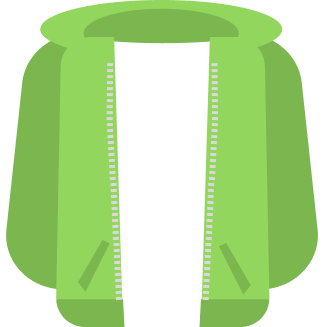
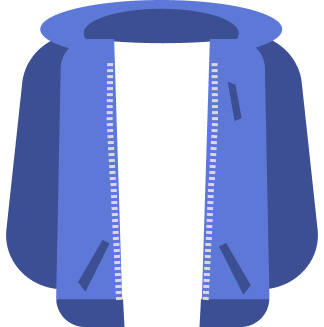
added more options on clothing

diff --git a/screens/SideScreen.js b/screens/SideScreen.js
@@ -13,7 +13,8 @@ import { getWinterJackets,
          getUmbrella,
          getRainBoots,
          getSneakers,
-         getShorts, } from "./getClothing";
+         getShorts,
+         getLightJacket } from "./getClothing";
 
 //For scaling [default dimension: 360x800]
 const { width, height } = Dimensions.get('window');
@@ -46,7 +47,7 @@ const WeatherScreen = ( { city} ) => {
   else{
     hat = require('../assets/empty.png')
   }
-  if(city.shirt === 'long-sleved'){
+  if(city.shirt === 'long-sleeved'){
     shirt = getlongSleeved()[0]
   }
   else if(city.shirt === 'hoodie'){
@@ -58,8 +59,8 @@ const WeatherScreen = ( { city} ) => {
   if(city.jacket === 'winter-jacket'){
     jacket = getWinterJackets()[0]
   }
-  else if(city.jacket){
-
+  else if(city.jacket === 'light-jacket'){
+    jacket = getLightJacket()[0]
   }
   else{
     jacket = require('../assets/empty.png')
@@ -167,7 +168,7 @@ const WeatherScreen = ( { city} ) => {
                 <Image
                   style={[styles.avatarBodyHead]}
                   resizeMode="cover"
-                  source={require("../assets/male-body/male-head-gas-mask.png")}
+                  source={require("../assets/male-body/male-head.png")}
                 />
                 <Image
                   style={[styles.avatarBodyUpperBody]}
@@ -322,7 +323,7 @@ const styles = StyleSheet.create({
   },
   jacket:{
     zIndex: 2,
-    top: 63,
+    top: 64,
   },
   pants:{
     top: 150,
@@ -334,7 +335,7 @@ const styles = StyleSheet.create({
   },
   umbrella:{
     zIndex: 100,
-    top: 150,
+    top: 152,
     right: 70
   },
   botBar:{

diff --git a/screens/getClothing.js b/screens/getClothing.js
@@ -3,13 +3,14 @@ import * as React from "react";
 const winter = [require('../assets/jacket/winter/v1.png')]
 const pants = [require('../assets/pants/pants/v1.png')]
 const hoodie = [require('../assets/shirt/hoodie/v1.png'), require('../assets/shirt/hoodie/v2.png')]
-const longSleeved = [require('../assets/shirt/long-sleeved/v1.png')]
+const longSleeved = [require('../assets/shirt/long/v1.png')]
 const boots = [require('../assets/shoes/boots/v1.png')]
 const sneakers = [require('../assets/shoes/sneakers/v1.png')]
 const rain = [require('../assets/shoes/rain/v1.png')]
 const sandals = [require('../assets/shoes/sandals/v1.png')]
 const umbrella = [require('../assets/accessories/umbrella/v1.png')]
 const shorts = [require('../assets/pants/shorts/v1.png')]
+const light = [require('../assets/jacket/light/v1.png')]
 export function getWinterJackets(){
     return winter;
 }
@@ -39,4 +40,7 @@ export function getUmbrella(){
 }
 export function getShorts(){
     return shorts;
+}
+export function getLightJacket(){
+    return light;
 }

diff --git a/App.js b/App.js
@@ -75,10 +75,10 @@ const App = () => {
           windspeed: weather['windspeed'],
           head: 'empty',
           shirt: 'long-sleeved',
-          jacket: 'winter-jacket',
+          jacket: 'light-jacket',
           pants: 'shorts',
           shoes: 'rain',
-          umbrella: 'false',
+          umbrella: 'true',
         })
       }
       setData(cityArray)
